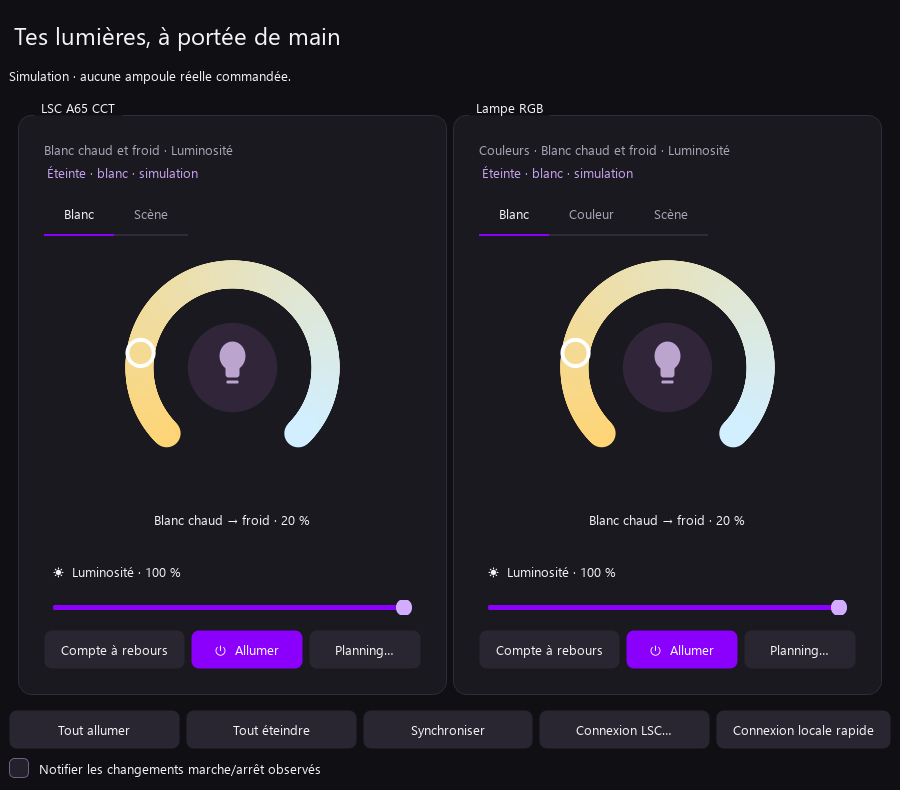
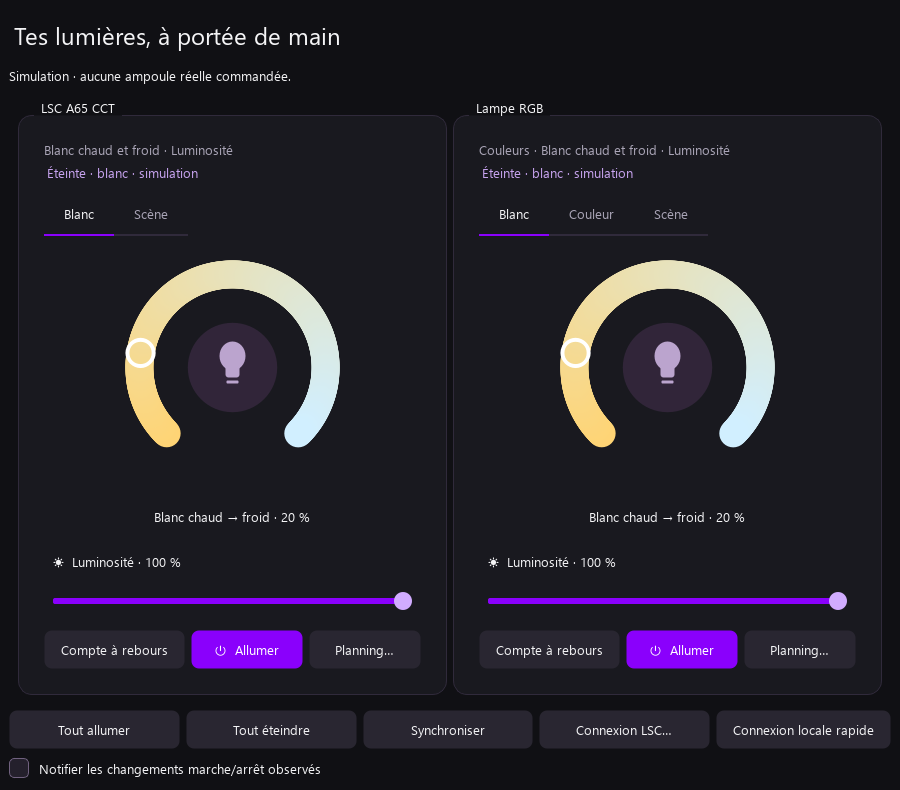
Rendre les curseurs directs et proteger les reglages des lectures en retard

diff --git a/app/test_sliders.py b/app/test_sliders.py
@@ -1,0 +1,150 @@
+"""Mouse gestures must use the whole track and remain aligned with the thumb."""
+import os
+import unittest
+os.environ.setdefault('QT_QPA_PLATFORM','offscreen')
+from PySide6.QtCore import QPoint,Qt
+from PySide6.QtTest import QTest,QSignalSpy
+from PySide6.QtWidgets import QApplication,QStyle,QStyleOptionSlider
+from sliders import DirectSlider
+from panels import LampCard
+from core import DEFAULTS
+from test_panels import FakeWindow
+
+
+def handle_rect(slider):
+    option=QStyleOptionSlider();slider.initStyleOption(option)
+    return slider.style().subControlRect(QStyle.ComplexControl.CC_Slider,option,QStyle.SubControl.SC_SliderHandle,slider)
+
+
+class SliderTests(unittest.TestCase):
+    @classmethod
+    def setUpClass(cls):cls.app=QApplication.instance() or QApplication([])
+
+    def setUp(self):
+        self.slider=DirectSlider();self.slider.setRange(0,100)
+        self.slider.resize(360,32);self.slider.show();self.app.processEvents()
+
+    def tearDown(self):
+        self.slider.close();self.slider.deleteLater();self.app.processEvents()
+
+    def test_track_click_positions_immediately_instead_of_page_stepping(self):
+        self.slider.setValue(0)
+        released=QSignalSpy(self.slider.sliderReleased)
+        point=QPoint(270,16)
+        QTest.mousePress(self.slider,Qt.MouseButton.LeftButton,pos=point)
+        self.assertAlmostEqual(self.slider.value(),75,delta=2)
+        self.assertTrue(self.slider.isSliderDown())
+        self.assertEqual(released.count(),0)
+        QTest.mouseRelease(self.slider,Qt.MouseButton.LeftButton,pos=point)
+        self.assertFalse(self.slider.isSliderDown())
+        self.assertEqual(released.count(),1)
+
+    def test_click_outside_small_handle_on_taller_hit_area_starts_drag(self):
+        self.slider.setValue(0)
+        point=QPoint(180,2)
+        QTest.mouseClick(self.slider,Qt.MouseButton.LeftButton,pos=point)
+        self.assertAlmostEqual(self.slider.value(),50,delta=1)
+
+    def test_thumb_follows_mouse_for_different_sizes_and_styles(self):
+        for width in (180,360,640):
+            for css in ('','QSlider::groove:horizontal {height:6px;} QSlider::handle:horizontal {width:26px;margin:-10px 0;}'):
+                with self.subTest(width=width,css=bool(css)):
+                    self.slider.setStyleSheet(css);self.slider.resize(width,36);self.app.processEvents()
+                    QTest.mousePress(self.slider,Qt.MouseButton.LeftButton,pos=QPoint(width//2,18))
+                    for fraction in (.15,.35,.80,.60):
+                        point=QPoint(round(width*fraction),18)
+                        QTest.mouseMove(self.slider,point)
+                        self.assertAlmostEqual(handle_rect(self.slider).center().x(),point.x(),delta=width/200+1)
+                    QTest.mouseRelease(self.slider,Qt.MouseButton.LeftButton,pos=point)
+
+    def test_handle_grab_keeps_offset_without_jumping(self):
+        self.slider.setValue(40)
+        rect=handle_rect(self.slider)
+        point=QPoint(rect.left()+2,rect.center().y())
+        QTest.mousePress(self.slider,Qt.MouseButton.LeftButton,pos=point)
+        self.assertEqual(self.slider.value(),40)
+        destination=point+QPoint(90,0)
+        QTest.mouseMove(self.slider,destination)
+        self.assertAlmostEqual(self.slider.value(),66,delta=2)
+        QTest.mouseRelease(self.slider,Qt.MouseButton.LeftButton,pos=destination)
+
+    def test_drag_outside_track_clamps_and_releases_once(self):
+        released=QSignalSpy(self.slider.sliderReleased)
+        QTest.mousePress(self.slider,Qt.MouseButton.LeftButton,pos=QPoint(180,16))
+        QTest.mouseMove(self.slider,QPoint(450,80))
+        self.assertEqual(self.slider.value(),100)
+        QTest.mouseMove(self.slider,QPoint(-50,80))
+        self.assertEqual(self.slider.value(),0)
+        QTest.mouseRelease(self.slider,Qt.MouseButton.LeftButton,pos=QPoint(-50,80))
+        self.assertEqual(released.count(),1)
+        self.assertFalse(self.slider.isSliderDown())
+
+    def test_endpoints_and_reversed_layouts(self):
+        for rtl,inverted in ((False,False),(True,False),(False,True),(True,True)):
+            with self.subTest(rtl=rtl,inverted=inverted):
+                self.slider.setLayoutDirection(Qt.LayoutDirection.RightToLeft if rtl else Qt.LayoutDirection.LeftToRight)
+                self.slider.setInvertedAppearance(inverted)
+                reverse=rtl != inverted
+                QTest.mouseClick(self.slider,Qt.MouseButton.LeftButton,pos=QPoint(1,16))
+                self.assertEqual(self.slider.value(),100 if reverse else 0)
+                QTest.mouseClick(self.slider,Qt.MouseButton.LeftButton,pos=QPoint(359,16))
+                self.assertEqual(self.slider.value(),0 if reverse else 100)
+
+    def test_non_left_click_does_not_change_value(self):
+        self.slider.setValue(25)
+        QTest.mouseClick(self.slider,Qt.MouseButton.RightButton,pos=QPoint(300,16))
+        self.assertEqual(self.slider.value(),25)
+        self.assertFalse(self.slider.isSliderDown())
+
+    def test_native_keyboard_navigation_is_retained(self):
+        self.slider.setValue(50)
+        QTest.keyClick(self.slider,Qt.Key.Key_Right)
+        self.assertEqual(self.slider.value(),51)
+        QTest.keyClick(self.slider,Qt.Key.Key_End)
+        self.assertEqual(self.slider.value(),100)
+
+
+class CardSliderTests(unittest.TestCase):
+    @classmethod
+    def setUpClass(cls):cls.app=QApplication.instance() or QApplication([])
+
+    def setUp(self):
+        self.window=FakeWindow();self.card=LampCard(DEFAULTS[1],self.window)
+        self.card.resize(440,640);self.card.show();self.app.processEvents()
+
+    def tearDown(self):
+        self.card.close();self.card.deleteLater();self.app.processEvents()
+
+    def test_white_slider_previews_and_ignores_readback_then_sends_once(self):
+        slider=self.card.white_brightness
+        point=QPoint(slider.width()*3//4,slider.height()//2)
+        QTest.mousePress(slider,Qt.MouseButton.LeftButton,pos=point)
+        value=slider.value()
+        self.assertAlmostEqual(value,75,delta=3)
+        self.assertIn(str(value)+' %',slider.caption.text())
+        self.card.show_state(dict(power=True,mode='white',brightness=1,temperature=100))
+        self.assertEqual(slider.value(),value)
+        self.assertEqual(self.window.commands,[])
+        QTest.mouseRelease(slider,Qt.MouseButton.LeftButton,pos=point)
+        self.assertEqual(len(self.window.commands),1)
+        self.assertEqual(self.window.commands[0][1:],('white',{'temperature':20.0,'brightness':value}))
+
+    def test_colour_slider_preserves_hue_and_other_component(self):
+        self.card.show_state(dict(power=True,mode='colour',hsv=dict(h=240,s=35,v=80)))
+        self.app.processEvents()
+        for name,component in (('saturation','s'),('colour_brightness','v')):
+            slider=getattr(self.card,name)
+            point=QPoint(slider.width()//2,slider.height()//2)
+            self.window.commands.clear()
+            QTest.mousePress(slider,Qt.MouseButton.LeftButton,pos=point)
+            self.assertEqual(self.window.commands,[])
+            QTest.mouseRelease(slider,Qt.MouseButton.LeftButton,pos=point)
+            self.assertEqual(len(self.window.commands),1)
+            _,action,payload=self.window.commands[0]
+            self.assertEqual(action,'hsv');self.assertEqual(payload['h'],240)
+            self.assertEqual(payload[component],slider.value())
+            if component=='s':self.assertEqual(payload['v'],80)
+            else:self.assertEqual(payload['s'],self.card.saturation.value())
+
+
+if __name__=='__main__':unittest.main()

diff --git a/app/sliders.py b/app/sliders.py
@@ -1,0 +1,58 @@
+"""Direct positioning with native Qt geometry, keyboard support and drag signals."""
+from PySide6.QtCore import Qt
+from PySide6.QtWidgets import QSlider, QStyle, QStyleOptionSlider
+
+
+class DirectSlider(QSlider):
+    def __init__(self, parent=None):
+        super().__init__(Qt.Orientation.Horizontal, parent)
+        self._drag_offset = 0.0
+        self.setMinimumHeight(28)
+        self.setCursor(Qt.CursorShape.PointingHandCursor)
+
+    def _geometry(self):
+        option = QStyleOptionSlider()
+        self.initStyleOption(option)
+        style = self.style()
+        groove = style.subControlRect(QStyle.ComplexControl.CC_Slider, option,
+                                      QStyle.SubControl.SC_SliderGroove, self)
+        handle = style.subControlRect(QStyle.ComplexControl.CC_Slider, option,
+                                      QStyle.SubControl.SC_SliderHandle, self)
+        return option, groove, handle
+
+    def _choose(self, position):
+        option, groove, handle = self._geometry()
+        span = max(0, groove.width() - handle.width())
+        pixel = round(position.x() - self._drag_offset - groove.x() - (handle.width() - 1) // 2)
+        value = QStyle.sliderValueFromPosition(self.minimum(), self.maximum(),
+                                               pixel, span, option.upsideDown)
+        self.setSliderPosition(value)
+
+    def mousePressEvent(self, event):
+        if event.button() != Qt.MouseButton.LeftButton:
+            event.ignore()
+            return
+        self.setFocus(Qt.FocusReason.MouseFocusReason)
+        _, _, handle = self._geometry()
+        on_handle = handle.contains(event.position().toPoint())
+        # Preserve the grab point on the thumb; a track click centres it immediately.
+        self._drag_offset = event.position().x() - handle.center().x() if on_handle else 0.0
+        self.setSliderDown(True)
+        if not on_handle:
+            self._choose(event.position())
+        event.accept()
+
+    def mouseMoveEvent(self, event):
+        if self.isSliderDown():
+            self._choose(event.position())
+            event.accept()
+        else:
+            super().mouseMoveEvent(event)
+
+    def mouseReleaseEvent(self, event):
+        if event.button() == Qt.MouseButton.LeftButton and self.isSliderDown():
+            self._choose(event.position())
+            self.setSliderDown(False)
+            event.accept()
+        else:
+            event.ignore()

diff --git a/app/desktop.py b/app/desktop.py
@@ -118,6 +118,9 @@ class Window(QMainWindow):
     def complete(self, context, payload):
         values, error = payload
         self.busy = False
+        # Snapshot before dequeuing: this result predates those user adjustments.
+        waiting_adjustments = {slot for slot, action in self.pending_commands
+                               if action in ("white", "brightness", "temperature", "hsv", "colour")}
         if self.pending_commands:
             (slot, action), value = self.pending_commands.popitem(last=False)
             QTimer.singleShot(0, lambda s=slot, a=action, v=value: self.command(s, a, v))
@@ -157,7 +160,7 @@ class Window(QMainWindow):
             if context == "observe" and self.notifications.isChecked() and previous is not None and previous != state["power"]:
                 self.tray.showMessage("LSC Control", self.cards[slot].title() + (" s'est allumée." if state["power"] else " s'est éteinte."))
             self.last_states[slot] = state["power"]
-            self.cards[slot].show_state(state)
+            self.cards[slot].show_state(state, preserve_controls=slot in waiting_adjustments)
         from tray_menu import state_label
         self.tray.setToolTip("LSC Control\n" + "\n".join(
             card.title() + " : " + state_label(self.device_states.get(slot))

diff --git a/app/panels.py b/app/panels.py
@@ -7,6 +7,7 @@ from PySide6.QtWidgets import (
     QDialog, QDialogButtonBox, QGroupBox, QHBoxLayout, QLabel, QPushButton,
     QSlider, QTabWidget, QVBoxLayout, QWidget,
 )
+from sliders import DirectSlider
 
 
 class LightRing(QWidget):
@@ -188,7 +189,7 @@ class LampCard(QGroupBox):
 
     def slider(self, layout, title, value, minimum):
         label = QLabel(f'{title} · {value} %')
-        slider = QSlider(Qt.Orientation.Horizontal)
+        slider = DirectSlider()
         slider.caption = label
         slider.setRange(minimum, 100)
         slider.setValue(value)
@@ -223,9 +224,9 @@ class LampCard(QGroupBox):
             elif self.rgb and self.tabs.widget(index) is self.colour:
                 self.send_colour()
 
-    def show_state(self, state):
+    def show_state(self, state, preserve_controls=False):
         # Don't overwrite a user's unfinished drag with a background read.
-        if self.white_ring.dragging or self.white_brightness.isSliderDown():
+        if preserve_controls or self.white_ring.dragging or self.white_brightness.isSliderDown():
             return
         if self.rgb and (self.colour_ring.dragging or self.colour_brightness.isSliderDown() or self.saturation.isSliderDown()):
             return

diff --git a/app/theme.py b/app/theme.py
@@ -116,9 +116,10 @@ def apply_theme(app):
         QPushButton[role="day"] { background: #25202E; border: 1px solid #44394F; border-radius: 8px; padding: 9px 4px; }
         QPushButton[role="day"]:checked { background: #51007A; border-color: #A54DFF; color: white; }
         QPushButton[role="day"]:focus { border-color: #D3B3F0; }
-        QSlider::groove:horizontal { height: 5px; background: #3D3449; border-radius: 2px; }
+        QSlider::groove:horizontal { height: 6px; background: #3D3449; border-radius: 3px; }
         QSlider::sub-page:horizontal { background: #8A00FC; border-radius: 2px; }
-        QSlider::handle:horizontal { background: #D1ACFF; width: 16px; margin: -6px 0; border-radius: 8px; }
+        QSlider::handle:horizontal { background: #D1ACFF; width: 18px; margin: -6px 0; border-radius: 9px; }
+        QSlider::handle:horizontal:hover { background: #E5D1FF; }
         QTabWidget::pane { border: none; background: transparent; }
         QTabBar::tab { background: transparent; color: #AAA5B7; padding: 12px 20px; border-bottom: 2px solid #302A3B; }
         QTabBar::tab:selected { color: #F4F4F6; border-bottom: 2px solid #8A00FC; }

diff --git a/app/test_lighting_catalog.py b/app/test_lighting_catalog.py
@@ -255,5 +255,23 @@ class WindowCatalogTests(unittest.TestCase):
         self.assertEqual(self.window.cards,{})
         self.assertFalse(self.window.empty.isHidden())
 
+    def test_read_in_progress_cannot_reset_a_just_released_slider(self):
+        from PySide6.QtCore import QPoint, Qt
+        card = self.window.cards['a60']
+        slider = card.white_brightness
+        self.window.busy = True
+        point = QPoint(slider.width() * 3 // 4, slider.height() // 2)
+        QTest.mouseClick(slider, Qt.MouseButton.LeftButton, pos=point)
+        desired = slider.value()
+        self.assertGreater(desired, 50)
+        self.assertIn(('a60', 'white'), self.window.pending_commands)
+        with patch('desktop.QTimer.singleShot') as schedule:
+            self.window.complete('observe', ([dict(slot='a60', power=False, mode='white', brightness=1)], None))
+        self.assertEqual(slider.value(), desired)
+        schedule.call_args.args[1]()
+        self.drain()
+        self.assertEqual(slider.value(), desired)
+        self.assertEqual(self.controller.status('a60')['brightness'], desired)
+
 
 if __name__ == '__main__': unittest.main()

diff --git a/tools/build_windows.py b/tools/build_windows.py
@@ -10,7 +10,7 @@ import sys
 import zipfile
 
 ROOT = Path(__file__).resolve().parents[1]
-VERSION = "0.3.0"
+VERSION = "0.3.1"
 
 
 def run(*args, **kwargs):

diff --git a/README.md b/README.md
@@ -3,7 +3,7 @@
 **Vos lumières LSC, dans une fenêtre et près de l’horloge Windows.**
 
 [![Windows](https://github.com/BLK185/lsc-control/actions/workflows/windows.yml/badge.svg)](https://github.com/BLK185/lsc-control/actions/workflows/windows.yml)
-[![Version](https://img.shields.io/badge/version-0.3.0-8A00FC)](https://github.com/BLK185/lsc-control/releases)
+[![Version](https://img.shields.io/badge/version-0.3.1-8A00FC)](https://github.com/BLK185/lsc-control/releases)
 [![Licence MIT](https://img.shields.io/badge/licence-MIT-51007A)](LICENSE)
 
 Une application de bureau pour les **éclairages enregistrés dans votre compte LSC Smart Connect** : ampoules, rubans et luminaires reconnus. Les A65 CCT et A60 RGB-CCT ont servi aux premiers essais. L’objectif est de retrouver les réglages du téléphone, les commandes rapides et le planning partagé, sans imposer de migration vers une autre application.
@@ -48,6 +48,8 @@ Les scènes non reçues du compte utilisent des ambiances proposées ; l’appli
 
 Anthracite, violet profond et accent violet vif. Le minuteur sépare les unités des champs ; un clic sélectionne les chiffres à remplacer. Dans un horaire, heures et minutes s’éditent séparément.
 
+Les curseurs de luminosité et de saturation se règlent par clic ou glissement sur toute la barre. Leur zone de saisie est plus haute que le trait visible ; le curseur suit la souris et les anciennes lectures n’écrasent pas un réglage en attente. Une seule commande est envoyée au relâchement.
+
 Le planning utilise une icône **verte pour allumer**, **rouge pour éteindre**. L’activation de l’horaire est affichée à part.
 
 | Compte à rebours | Planning |
@@ -73,7 +75,7 @@ python -m venv .venv
 .\.venv\Scripts\python.exe -m unittest discover -s app -p "test_*.py"
 ```
 
-**130 tests automatiques** couvrent transports, conversions, planning, stockage des sessions, import privé, interaction des panneaux, saisie au clic, catalogue dynamique, ciblage de la file groupée, intégrité des téléchargements, annulation et préparation de connexion. Ils n’utilisent aucun compte réel. Les validations physiques du propriétaire sont indiquées séparément.
+**141 tests automatiques** couvrent transports, conversions, planning, stockage des sessions, import privé, interaction des panneaux, saisie au clic, catalogue dynamique, ciblage de la file groupée, intégrité des téléchargements, annulation et préparation de connexion. Ils n’utilisent aucun compte réel. Les validations physiques du propriétaire sont indiquées séparément.
 
 Pour compiler l’installateur public, installer [Inno Setup 6](https://jrsoftware.org/isdl.php), puis :
 

diff --git a/CHANGELOG.md b/CHANGELOG.md
@@ -2,6 +2,15 @@
 
 Ce journal reconstitue les étapes à partir des notes du projet et des essais du propriétaire. Il ne prétend pas que les commits GitHub ont été créés ces jours-là : la mise en dépôt a lieu le 18 octobre 2026. Aucune activité n’est inventée pour les jours sans trace.
 
+## 21 octobre 2026 — curseurs directs, v0.3.1
+
+- Clic n’importe où sur la barre de luminosité ou saturation, puis glissement direct ; suppression de l’avancement natif par petits pas.
+- Position calculée avec la géométrie réelle du style Qt ; prise du curseur sans saut et valeurs bornées aux extrémités.
+- Zone de souris de 28 pixels, poignée légèrement agrandie et survol plus clair.
+- Conservation du réglage si une ancienne lecture se termine après le relâchement, avant l’envoi de la commande en attente.
+- Une seule commande au relâchement, avec aperçu immédiat à l’écran.
+- 141 tests, dont clic/glissement sur différentes tailles et styles, limites, disposition inversée, conservation HSV et ancienne lecture en cours.
+
 ## 21 octobre 2026 — connexion sur une installation neuve, v0.3.0
 
 - Remplacement de l’import manuel du module privé par une préparation guidée depuis le client Action officiel, sans redistribuer ses fichiers dans le paquet.

diff --git a/docs/releases/v0.3.1.md b/docs/releases/v0.3.1.md
@@ -1,0 +1,15 @@
+# Curseurs plus directs — 0.3.1
+
+Les curseurs de luminosité et de saturation acceptent maintenant un clic n’importe où sur la barre : la poignée rejoint directement la souris et peut être glissée dans le même geste. La zone cliquable est plus haute, la poignée légèrement plus grande, et le calcul suit la géométrie réelle du thème Qt.
+
+Une ancienne lecture d’état ne rétablit plus la valeur précédente lorsqu’un réglage attend son envoi. L’aperçu reste immédiat ; une seule commande est envoyée à l’ampoule au relâchement.
+
+141 tests automatiques passent, dont des gestes simulés sur plusieurs tailles et styles, des relâchements hors de la barre et une lecture en cours au moment du clic. Aucun éclairage réel ni horaire n’a été modifié pour ces tests.
+
+La préparation de connexion de la version 0.3.0, les sessions existantes et le planning partagé sont conservés. Le programme reste expérimental et non signé.
+
+## Windows x64
+
+- `LSC-Control-0.3.1-windows-x64-setup.exe`
+- `LSC-Control-0.3.1-windows-x64-portable.zip`
+- `SHA256SUMS.txt`

diff --git a/docs/INSTALLATION_WINDOWS.md b/docs/INSTALLATION_WINDOWS.md
@@ -4,7 +4,7 @@ Cette version vise Windows 10/11 x64. L’application est personnelle, expérime
 
 ## Installation
 
-1. Télécharger `LSC-Control-0.3.0-windows-x64-setup.exe` dans les [releases](https://github.com/BLK185/lsc-control/releases).
+1. Télécharger `LSC-Control-0.3.1-windows-x64-setup.exe` dans les [releases](https://github.com/BLK185/lsc-control/releases).
 2. Lancer l’installateur. L’installation est propre à l’utilisateur et ne demande pas de droits administrateur.
 3. Ouvrir LSC Control depuis le menu Démarrer. Un raccourci de bureau est facultatif.
 
